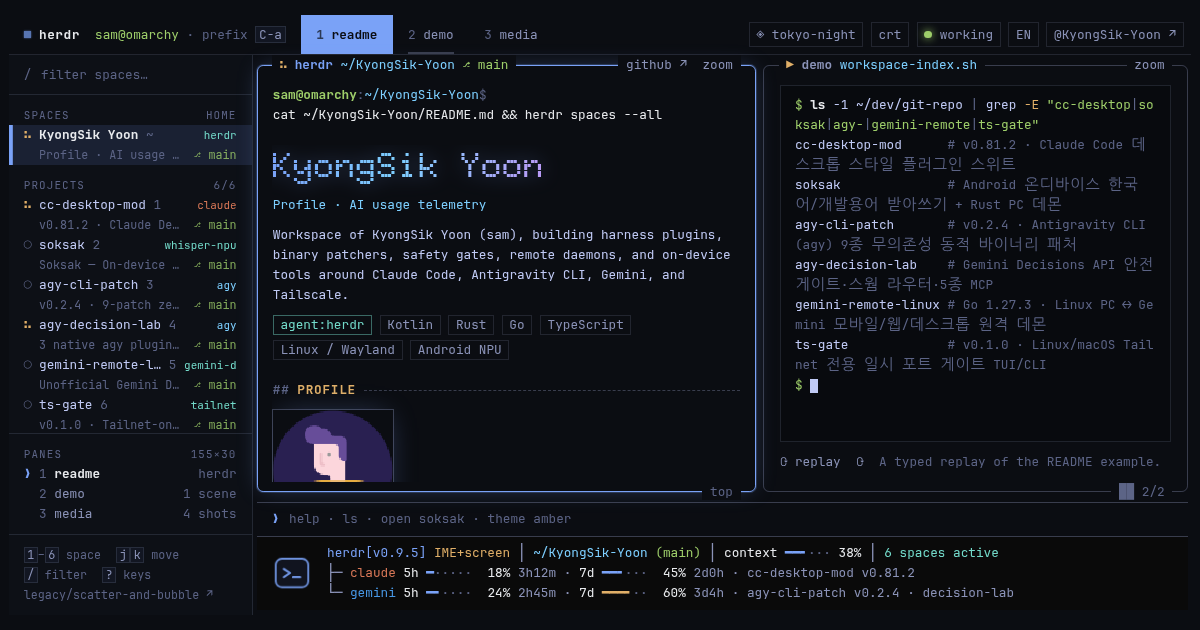
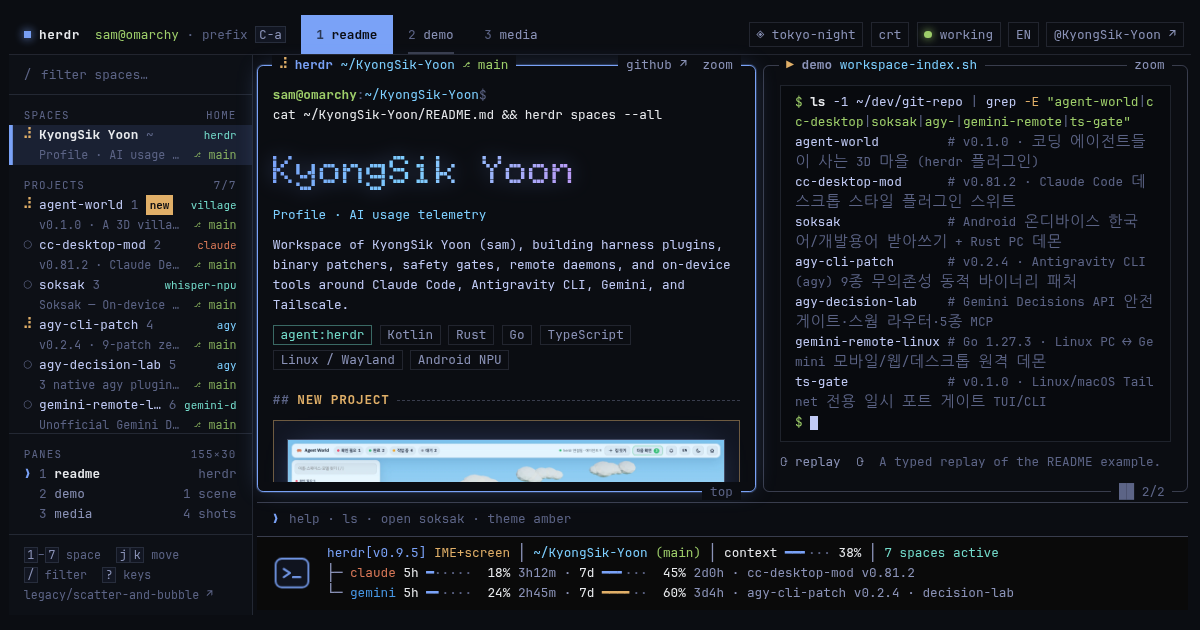
feat: agent-world 를 프로젝트 1번·첫 화면으로 추가
- data.js: agent-world 항목(소개·기능·설치 재생·스크린샷 8장·홈페이지 미리보기)을
  프로젝트 맨 앞에 넣고, 프로필의 색인·흐름·기능 문구에도 반영
- 첫 화면이 PROJECTS[0] 으로 열리게 바꿔 agent-world 가 랜딩 스페이스가 됨
- readme 패인에 표지 스크린샷(cover), 사이드바·배지에 new 표시
- 프로필에 "새 프로젝트" 블록(스크린샷·소개·설치 명령·바로 가기)
- 전용 아이콘과 상태줄(custom-world), 숫자 키 범위를 프로젝트 수에 맞춤
- og.png 를 7개 프로젝트가 보이게 다시 찍고, css·js 버전 해시 갱신

Claude-Session: https://claude.ai/code/session_01Hwruo4DBe4bkfAhYioTmwB

diff --git a/docs/app.js b/docs/app.js
@@ -36,7 +36,7 @@
   /** @typedef {"ko" | "en"} Lang */
 
   const state = {
-    selectedId: "cc-desktop-mod",
+    selectedId: PROJECTS[0].id,
     pane: "readme",
     zoom: null,
     side: "demo",
@@ -464,6 +464,18 @@
         </g>
       </svg>`;
     }
+    if (kind === "custom-world") {
+      return `<svg viewBox="0 0 40 40"${activeAttr} role="img" aria-label="Agent World island icon">
+        <g class="custom-logo-pulse">
+          <path d="M5 26l7 7h16l7-7" style="${bg};stroke:var(--orange)" stroke-width="1.6" stroke-linejoin="round" />
+          <ellipse cx="20" cy="26" rx="15" ry="5.5" style="${bg};stroke:var(--green)" stroke-width="1.8" />
+          <path d="M11 25v-7l5.5-4.5 5.5 4.5v7Z" style="${bg};stroke:var(--magenta)" stroke-width="1.8" stroke-linejoin="round" />
+          <path d="M15.5 25v-3.5h2V25" style="stroke:var(--magenta)" stroke-width="1.4" fill="none" />
+          <path d="M28 25v-3M28 22l-3 0 3-7 3 7Z" style="fill:var(--green);stroke:var(--green)" stroke-width="1.2" stroke-linejoin="round" />
+          <circle cx="23" cy="28" r="1.7" style="fill:var(--clawd)" />
+        </g>
+      </svg>`;
+    }
     return `<svg viewBox="0 0 40 40"${activeAttr} role="img" aria-label="Herdr mux icon">
       <g class="custom-logo-pulse">
         <rect x="4" y="6" width="32" height="28" rx="6" style="${bg};stroke:var(--blue)" stroke-width="1.8" />
@@ -622,6 +634,28 @@
       ];
     }
 
+    if (sl.type === "custom-world") {
+      return [
+        [
+          grp(0, seg("c-teal", r1.model)),
+          grp(4, seg("c-green", r1.mode)),
+          grp(1, dim("│"), white("working"), bar(r1.workPct * k), white(r1.workLabel)),
+          grp(3, dim("│"), seg("c-cyan", r1.host)),
+        ],
+        [
+          grp(0, dim("├─"), seg("c-teal", r2.label), seg("c-red", r2.blocked)),
+          grp(1, dim("·"), seg("c-green", r2.done)),
+          grp(2, dim("·"), seg("c-yellow", r2.working)),
+          grp(3, dim("·"), dim(r2.idle)),
+        ],
+        [
+          grp(0, dim("└─"), seg("c-teal", r3.label), white(r3.source)),
+          grp(2, dim("·"), seg("c-green", r3.hooks)),
+          grp(3, dim("·"), dim(r3.net)),
+        ],
+      ];
+    }
+
     const ctx = r1.ctxPct * k;
     return [
       [
@@ -706,7 +740,7 @@
       <span class="space-row">
         <span class="space-state" data-state="${st}" data-agent="${esc(item.id)}"${st === "working" ? " data-spin" : ""} aria-hidden="true">${stateGlyph(st)}</span>
         <span class="space-name">${esc(item.name)}</span>
-        <span class="space-idx">${esc(indexHint)}</span>
+        <span class="space-idx">${esc(indexHint)}</span>${item.isNew ? '<span class="space-new">new</span>' : ""}
         <span class="space-badge ${item.badgeClass}">${esc(item.badge)}</span>
       </span>
       <span class="space-row space-row2">
@@ -944,6 +978,41 @@
     </div>`;
   }
 
+  /** The profile leads with one project: its first screenshot, what it is, and a way in. */
+  function featuredBlock(item) {
+    const cover = item.media.find((m) => m.kind === "image");
+    const promptChar = item.installCmd.startsWith("/") ? "❯" : "$";
+    return `<section class="sec">
+      <h2 class="sec-h">${L("새 프로젝트", "New Project")}</h2>
+      <div class="featured">
+        ${
+          cover
+            ? `<button type="button" class="cover-shot" data-select-id="${esc(item.id)}" title="${esc(L("스페이스 열기", "Open the space"))}">
+          <img src="${esc(cover.src)}" alt="${esc(t(cover.caption))}" width="${cover.w}" height="${cover.h}" decoding="async" />
+        </button>`
+            : ""
+        }
+        <div class="featured-body">
+          <h3 class="featured-name">${esc(item.name)}<span class="badge is-new">new</span></h3>
+          <div class="hero-sub">${esc(t(item.sub))}</div>
+          <p class="feature-d">${esc(t(item.summary))}</p>
+          <div class="box">
+            <div class="box-h">
+              <span>${esc(item.cliBlockTitle)}</span>
+              <button type="button" class="copy-btn" data-copy="${esc(item.installCmd)}">⧉ copy</button>
+            </div>
+            <pre class="pre wrap"><span class="c-green">${promptChar}</span> ${highlightCommand(item.installCmd)}</pre>
+          </div>
+          <div class="featured-actions">
+            <button type="button" class="link" data-select-id="${esc(item.id)}">${L("스페이스 열기", "open the space")} →</button>
+            ${item.siteUrl ? `<a class="link" href="${esc(item.siteUrl)}" target="_blank" rel="noopener noreferrer">site ↗</a>` : ""}
+            <a class="link" href="${esc(item.repoUrl)}" target="_blank" rel="noopener noreferrer">github ↗</a>
+          </div>
+        </div>
+      </div>
+    </section>`;
+  }
+
   function renderReadme(item, animate) {
     const isProfile = item.id === "profile";
     const cmdLine = isProfile ? "cat ~/KyongSik-Yoon/README.md && herdr spaces --all" : `cd ${item.cwd} && cat README.md`;
@@ -962,10 +1031,22 @@
       <div class="hero-sub">${esc(t(item.sub))}</div>
       <p class="hero-summary">${esc(t(item.summary))}</p>
       <div class="badges">
-        <span class="badge is-hl">agent:${esc(item.agent)}</span>
+        ${item.isNew ? '<span class="badge is-new">new</span>' : ""}<span class="badge is-hl">agent:${esc(item.agent)}</span>
         ${item.stack.map((s) => `<span class="badge">${esc(s)}</span>`).join("")}
       </div>
     </div>`);
+
+    // A project that is mostly a picture shows it straight away, not two panes over.
+    const coverIndex = item.cover ? item.media.findIndex((m) => m.kind === "image") : -1;
+    if (coverIndex >= 0) {
+      const cover = item.media[coverIndex];
+      blocks.push(`<button type="button" class="cover-shot is-hero" data-media="${coverIndex}" title="${esc(L("크게 보기", "View larger"))}">
+        <img src="${esc(cover.src)}" alt="${esc(t(cover.caption))}" width="${cover.w}" height="${cover.h}" decoding="async" />
+      </button>`);
+    }
+
+    const featured = isProfile && PROJECTS.find((p) => p.id === item.featured);
+    if (featured) blocks.push(featuredBlock(featured));
 
     if (isProfile) {
       blocks.push(`<section class="sec">
@@ -1701,7 +1782,7 @@
 
   // ── which-key ──────────────────────────────────────────────────
   const KEYS = [
-    ["1–6", () => L("프로젝트 열기", "open a project"), false],
+    [`1–${PROJECTS.length}`, () => L("프로젝트 열기", "open a project"), false],
     ["0 ~", () => L("프로필", "profile"), false],
     ["j k", () => L("다음·이전 스페이스", "next / previous space"), false],
     ["alt+←→", () => L("패인 이동", "move between panes"), false],
@@ -2151,7 +2232,7 @@
       return;
     }
 
-    if (/^[1-6]$/.test(e.key)) {
+    if (/^[1-9]$/.test(e.key)) {
       const proj = PROJECTS[Number(e.key) - 1];
       if (proj) selectItem(proj.id);
       return;

diff --git a/docs/index.html b/docs/index.html
@@ -11,7 +11,7 @@
     <meta property="og:title" content="KyongSik Yoon — Herdr Workspace Showcase" />
     <meta
       property="og:description"
-      content="cc-desktop-mod, soksak, agy-cli-patch, agy-decision-lab, gemini-remote-linux, ts-gate"
+      content="agent-world, cc-desktop-mod, soksak, agy-cli-patch, agy-decision-lab, gemini-remote-linux, ts-gate"
     />
     <meta property="og:type" content="website" />
     <meta property="og:url" content="https://ksyoon.com/" />
@@ -49,7 +49,7 @@
     />
     <link rel="preload" href="./assets/fonts/JetBrainsMono-Regular.woff2" as="font" type="font/woff2" crossorigin />
     <link rel="stylesheet" href="./hangul.css?v=280c8111" />
-    <link rel="stylesheet" href="./styles.css?v=39110d1b" />
+    <link rel="stylesheet" href="./styles.css?v=d48f76b3" />
   </head>
   <body>
     <!-- ghostty 창: 뷰포트를 셀(cols × rows) 단위로 잘라 쓰고 남는 픽셀은 창 여백이 된다 -->
@@ -107,7 +107,7 @@
               <div class="sb-cursor" id="sb-cursor" aria-hidden="true"></div>
               <div class="sb-head"><span>spaces</span><span class="sb-meta">home</span></div>
               <div id="profile-space-list" class="space-list"></div>
-              <div class="sb-head"><span>projects</span><span class="sb-meta" id="projects-count">6/6</span></div>
+              <div class="sb-head"><span>projects</span><span class="sb-meta" id="projects-count">7/7</span></div>
               <div id="project-space-list" class="space-list" role="listbox" aria-label="프로젝트 목록"></div>
             </div>
 
@@ -118,7 +118,7 @@
 
             <div class="sb-foot">
               <div class="hints">
-                <span><kbd>1</kbd>–<kbd>6</kbd> space</span>
+                <span><kbd>1</kbd>–<kbd>7</kbd> space</span>
                 <span><kbd>j</kbd><kbd>k</kbd> move</span>
                 <span><kbd>/</kbd> filter</span>
                 <span><kbd>?</kbd> keys</span>
@@ -231,6 +231,7 @@
         <h1>KyongSik Yoon (sam)</h1>
         <p>이 페이지는 JavaScript 로 그리는 터미널 화면입니다. 프로젝트 저장소로 바로 가기:</p>
         <ul>
+          <li><a href="https://github.com/KyongSik-Yoon/agent-world">agent-world</a></li>
           <li><a href="https://github.com/KyongSik-Yoon/cc-desktop-mod">cc-desktop-mod</a></li>
           <li><a href="https://github.com/KyongSik-Yoon/soksak">soksak</a></li>
           <li><a href="https://github.com/KyongSik-Yoon/agy-cli-patch">agy-cli-patch</a></li>
@@ -241,8 +242,8 @@
       </div>
     </noscript>
 
-    <script src="./data.js?v=724bf9a5" defer></script>
+    <script src="./data.js?v=385101f9" defer></script>
     <script src="./captures.js?v=e0490ad7" defer></script>
-    <script src="./app.js?v=8ee18d5f" defer></script>
+    <script src="./app.js?v=71691f33" defer></script>
   </body>
 </html>

diff --git a/docs/styles.css b/docs/styles.css
@@ -628,6 +628,15 @@ kbd {
 .badge-agy { color: var(--cyan); }
 .badge-custom { color: var(--teal); }
 
+.space-new {
+  flex-shrink: 0;
+  padding: 0 calc(var(--cw) / 2);
+  color: var(--accent-ink);
+  background: var(--yellow);
+  font-size: 0.86em;
+  font-weight: 700;
+}
+
 .space-row2 {
   padding-left: calc(var(--cw) * 2);
   color: var(--fg-dim);
@@ -1093,6 +1102,71 @@ kbd {
 .badge.is-hl {
   color: var(--teal);
   box-shadow: inset 0 0 0 1px color-mix(in srgb, var(--teal) 45%, transparent);
+}
+
+.badge.is-new {
+  color: var(--accent-ink);
+  background: var(--yellow);
+  box-shadow: none;
+  font-weight: 700;
+}
+
+/* 프로필 맨 위에 올리는 프로젝트 하나: 첫 스크린샷 + 소개 + 들어가는 길 */
+.featured {
+  display: grid;
+  grid-template-columns: repeat(auto-fit, minmax(min(100%, calc(var(--cw) * 40)), 1fr));
+  gap: var(--lh) calc(var(--cw) * 3);
+  align-items: start;
+  padding: var(--lh) calc(var(--cw) * 2);
+  background: var(--bg-raise);
+  box-shadow: inset 0 0 0 1px color-mix(in srgb, var(--yellow) 45%, transparent);
+}
+
+.cover-shot {
+  display: block;
+  min-width: 0;
+  box-shadow: 0 0 0 1px var(--line-strong), 0 0 28px -10px var(--glow);
+  transition: box-shadow 0.2s ease, transform 0.3s var(--ease);
+}
+
+.cover-shot:hover {
+  box-shadow: 0 0 0 1px var(--accent), 0 10px 30px -14px var(--glow);
+  transform: translateY(-2px);
+}
+
+.cover-shot img {
+  display: block;
+  width: 100%;
+  height: auto;
+  filter: var(--shot-filter);
+}
+
+.cover-shot.is-hero {
+  max-width: calc(var(--cw) * 92);
+}
+
+.featured-body {
+  display: flex;
+  flex-direction: column;
+  gap: calc(var(--lh) / 2);
+  min-width: 0;
+}
+
+.featured-name {
+  display: flex;
+  flex-wrap: wrap;
+  align-items: center;
+  gap: 0 calc(var(--cw) * 2);
+  margin: 0;
+  font-size: inherit;
+  font-weight: 700;
+  color: var(--fg-bright);
+}
+
+.featured-actions {
+  display: flex;
+  flex-wrap: wrap;
+  gap: 0 calc(var(--cw) * 3);
 }
 
 .sec {
